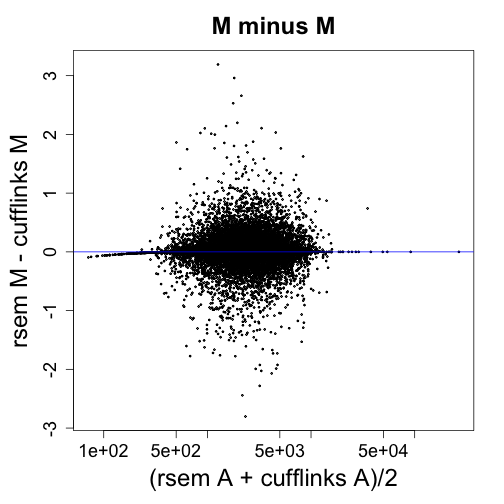
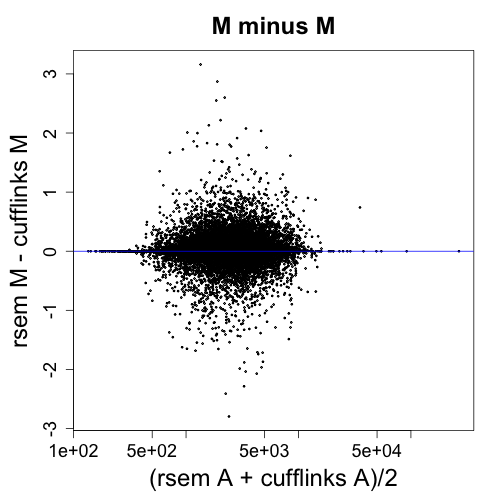
compare the same thing rsem and cuff

diff --git a/README.md b/README.md
@@ -69,6 +69,14 @@ All we have to do is collect this column over the samples.
 
 ```r
 library(data.table)
+```
+
+```
+## data.table 1.9.4  For help type: ?data.table
+## *** NB: by=.EACHI is now explicit. See README to restore previous behaviour.
+```
+
+```r
 rsem_list <- list()
 for (i in seq_along(samples)) {
   cat(i)
@@ -131,6 +139,26 @@ FPKM for all isoforms.
 
 ```r
 library(dplyr)
+```
+
+```
+## 
+## Attaching package: 'dplyr'
+## 
+## The following objects are masked from 'package:data.table':
+## 
+##     between, last
+## 
+## The following object is masked from 'package:stats':
+## 
+##     filter
+## 
+## The following objects are masked from 'package:base':
+## 
+##     intersect, setdiff, setequal, union
+```
+
+```r
 cuff_list <- list()
 for (i in seq_along(samples)) {
   cat(i)
@@ -229,6 +257,61 @@ would go.
 n <- nrow(norm.mat)
 m <- length(samples)
 library(DESeq2)
+```
+
+```
+## Loading required package: S4Vectors
+## Loading required package: stats4
+## Loading required package: BiocGenerics
+## Loading required package: parallel
+## 
+## Attaching package: 'BiocGenerics'
+## 
+## The following objects are masked from 'package:parallel':
+## 
+##     clusterApply, clusterApplyLB, clusterCall, clusterEvalQ,
+##     clusterExport, clusterMap, parApply, parCapply, parLapply,
+##     parLapplyLB, parRapply, parSapply, parSapplyLB
+## 
+## The following objects are masked from 'package:dplyr':
+## 
+##     intersect, setdiff, union
+## 
+## The following object is masked from 'package:stats':
+## 
+##     xtabs
+## 
+## The following objects are masked from 'package:base':
+## 
+##     anyDuplicated, append, as.data.frame, as.vector, cbind,
+##     colnames, do.call, duplicated, eval, evalq, Filter, Find, get,
+##     intersect, is.unsorted, lapply, Map, mapply, match, mget,
+##     order, paste, pmax, pmax.int, pmin, pmin.int, Position, rank,
+##     rbind, Reduce, rep.int, rownames, sapply, setdiff, sort,
+##     table, tapply, union, unique, unlist, unsplit
+## 
+## 
+## Attaching package: 'S4Vectors'
+## 
+## The following object is masked from 'package:dplyr':
+## 
+##     rename
+## 
+## Loading required package: IRanges
+## 
+## Attaching package: 'IRanges'
+## 
+## The following objects are masked from 'package:dplyr':
+## 
+##     collapse, desc, slice
+## 
+## Loading required package: GenomicRanges
+## Loading required package: GenomeInfoDb
+## Loading required package: Rcpp
+## Loading required package: RcppArmadillo
+```
+
+```r
 cts <- matrix(rpois(n*m,lambda=100),ncol=m)
 coldata <- data.frame(condition=factor(condition), row.names=samples)
 dds <- DESeqDataSetFromMatrix(cts, coldata, ~ condition)
@@ -245,12 +328,12 @@ head(normalizationFactors(dds))
 
 ```
 ##      SRR577587 SRR578627 SRR577595 SRR578635
-## [1,] 0.9386213 1.0654183 0.9386604 1.0653221
-## [2,] 1.0584347 1.6645950 1.0721505 0.5293849
-## [3,] 0.9538692 1.0266083 0.9999909 1.0211989
-## [4,] 1.5247517 0.8809983 0.8517053 0.8740504
-## [5,] 1.0518095 0.6337035 1.4618764 1.0262807
-## [6,] 0.8800437 1.0535816 1.0461111 1.0309790
+## [1,] 0.9385426 1.0646535 0.9392622 1.0654936
+## [2,] 1.0583461 1.6634000 1.0728379 0.5294701
+## [3,] 0.9537893 1.0258714 1.0006321 1.0213632
+## [4,] 1.5246239 0.8803659 0.8522514 0.8741910
+## [5,] 1.0517214 0.6332486 1.4628137 1.0264458
+## [6,] 0.8799699 1.0528253 1.0467818 1.0311449
 ```
 
 ## Input to edgeR
@@ -262,6 +345,23 @@ needs to be on the natural log scale.  The offset matrix, like the
 
 ```r
 library(edgeR)
+```
+
+```
+## Loading required package: limma
+## 
+## Attaching package: 'limma'
+## 
+## The following object is masked from 'package:DESeq2':
+## 
+##     plotMA
+## 
+## The following object is masked from 'package:BiocGenerics':
+## 
+##     plotMA
+```
+
+```r
 o <- log(calcNormFactors(cts/norm.mat)) + log(colSums(cts/norm.mat))
 y <- DGEList(cts)
 y$offset <- t(t(log(norm.mat)) + o)
@@ -269,10 +369,59 @@ y$offset <- t(t(log(norm.mat)) + o)
 
 ## Exploring RSEM and Cufflinks estimates
 
-As a caveat, we note that the RSEM column we used is the effective
-length (where the average fragment length has been subtracted),
+Above, we used RSEM column `effective_length`
+(where the average fragment length has been subtracted),
 whereas the Cufflinks column we used was the transcript length alone.
-This might explain some discrepancy across different software.
+In order to compare across software, we reload the RSEM data, this time using the
+column `length`.
+
+
+```r
+rsem_list <- list()
+for (i in seq_along(samples)) {
+  cat(i)
+  rsem_raw <- fread(paste0("rsem_out/",samples[i],"/",samples[i],".genes.results"))
+  rsem_list[[i]] <- data.frame(eff_length=rsem_raw$length, row.names=rsem_raw$gene_id)
+}
+```
+
+```
+## 1234
+```
+
+```r
+head(rsem_list[[1]])
+```
+
+```
+##                 eff_length
+## ENSG00000000003    2070.85
+## ENSG00000000005     940.50
+## ENSG00000000419    1044.69
+## ENSG00000000457    6088.04
+## ENSG00000000460    2771.35
+## ENSG00000000938    2118.54
+```
+
+```r
+for (i in seq_along(samples)[-1]) {
+  stopifnot(all(rownames(rsem_list[[i]]) == rownames(rsem_list[[1]])))
+}
+rsem <- do.call(cbind, rsem_list)
+rsem <- as.matrix(rsem)
+colnames(rsem) <- samples
+head(rsem)
+```
+
+```
+##                 SRR577587 SRR578627 SRR577595 SRR578635
+## ENSG00000000003   2070.85   2226.82   2039.15   2240.13
+## ENSG00000000005    940.50   1339.00    940.50    542.00
+## ENSG00000000419   1044.69   1075.54   1074.93   1075.95
+## ENSG00000000457   6088.04   3411.57   3409.75   3407.85
+## ENSG00000000460   2771.35   1660.15   3727.00   2600.37
+## ENSG00000000938   2118.54   2393.43   2449.48   2360.06
+```
 
 
 ```r
@@ -295,6 +444,13 @@ colnames(cuff) <- condition
 
 ```r
 library(rafalib)
+```
+
+```
+## Loading required package: RColorBrewer
+```
+
+```r
 mypar(2,2)
 for (i in 1:4) {
   suppressWarnings(plot(rsem[,i], cuff[,i],log="xy",cex=.3,main=samples[i],
@@ -325,14 +481,6 @@ mypar()
 rsem_a <- rowMeans(rsem)
 rsem_m <- log2(rowMeans(rsem[,condition == "SC"])/rowMeans(rsem[,condition == "LV"]))
 plot(rsem_a, rsem_m, log="x", xlab="A", ylab="M", main="rsem", cex=.3)
-```
-
-```
-## Warning in xy.coords(x, y, xlabel, ylabel, log): 2444 x values <= 0
-## omitted from logarithmic plot
-```
-
-```r
 abline(h=0,col="blue")
 ```
 
